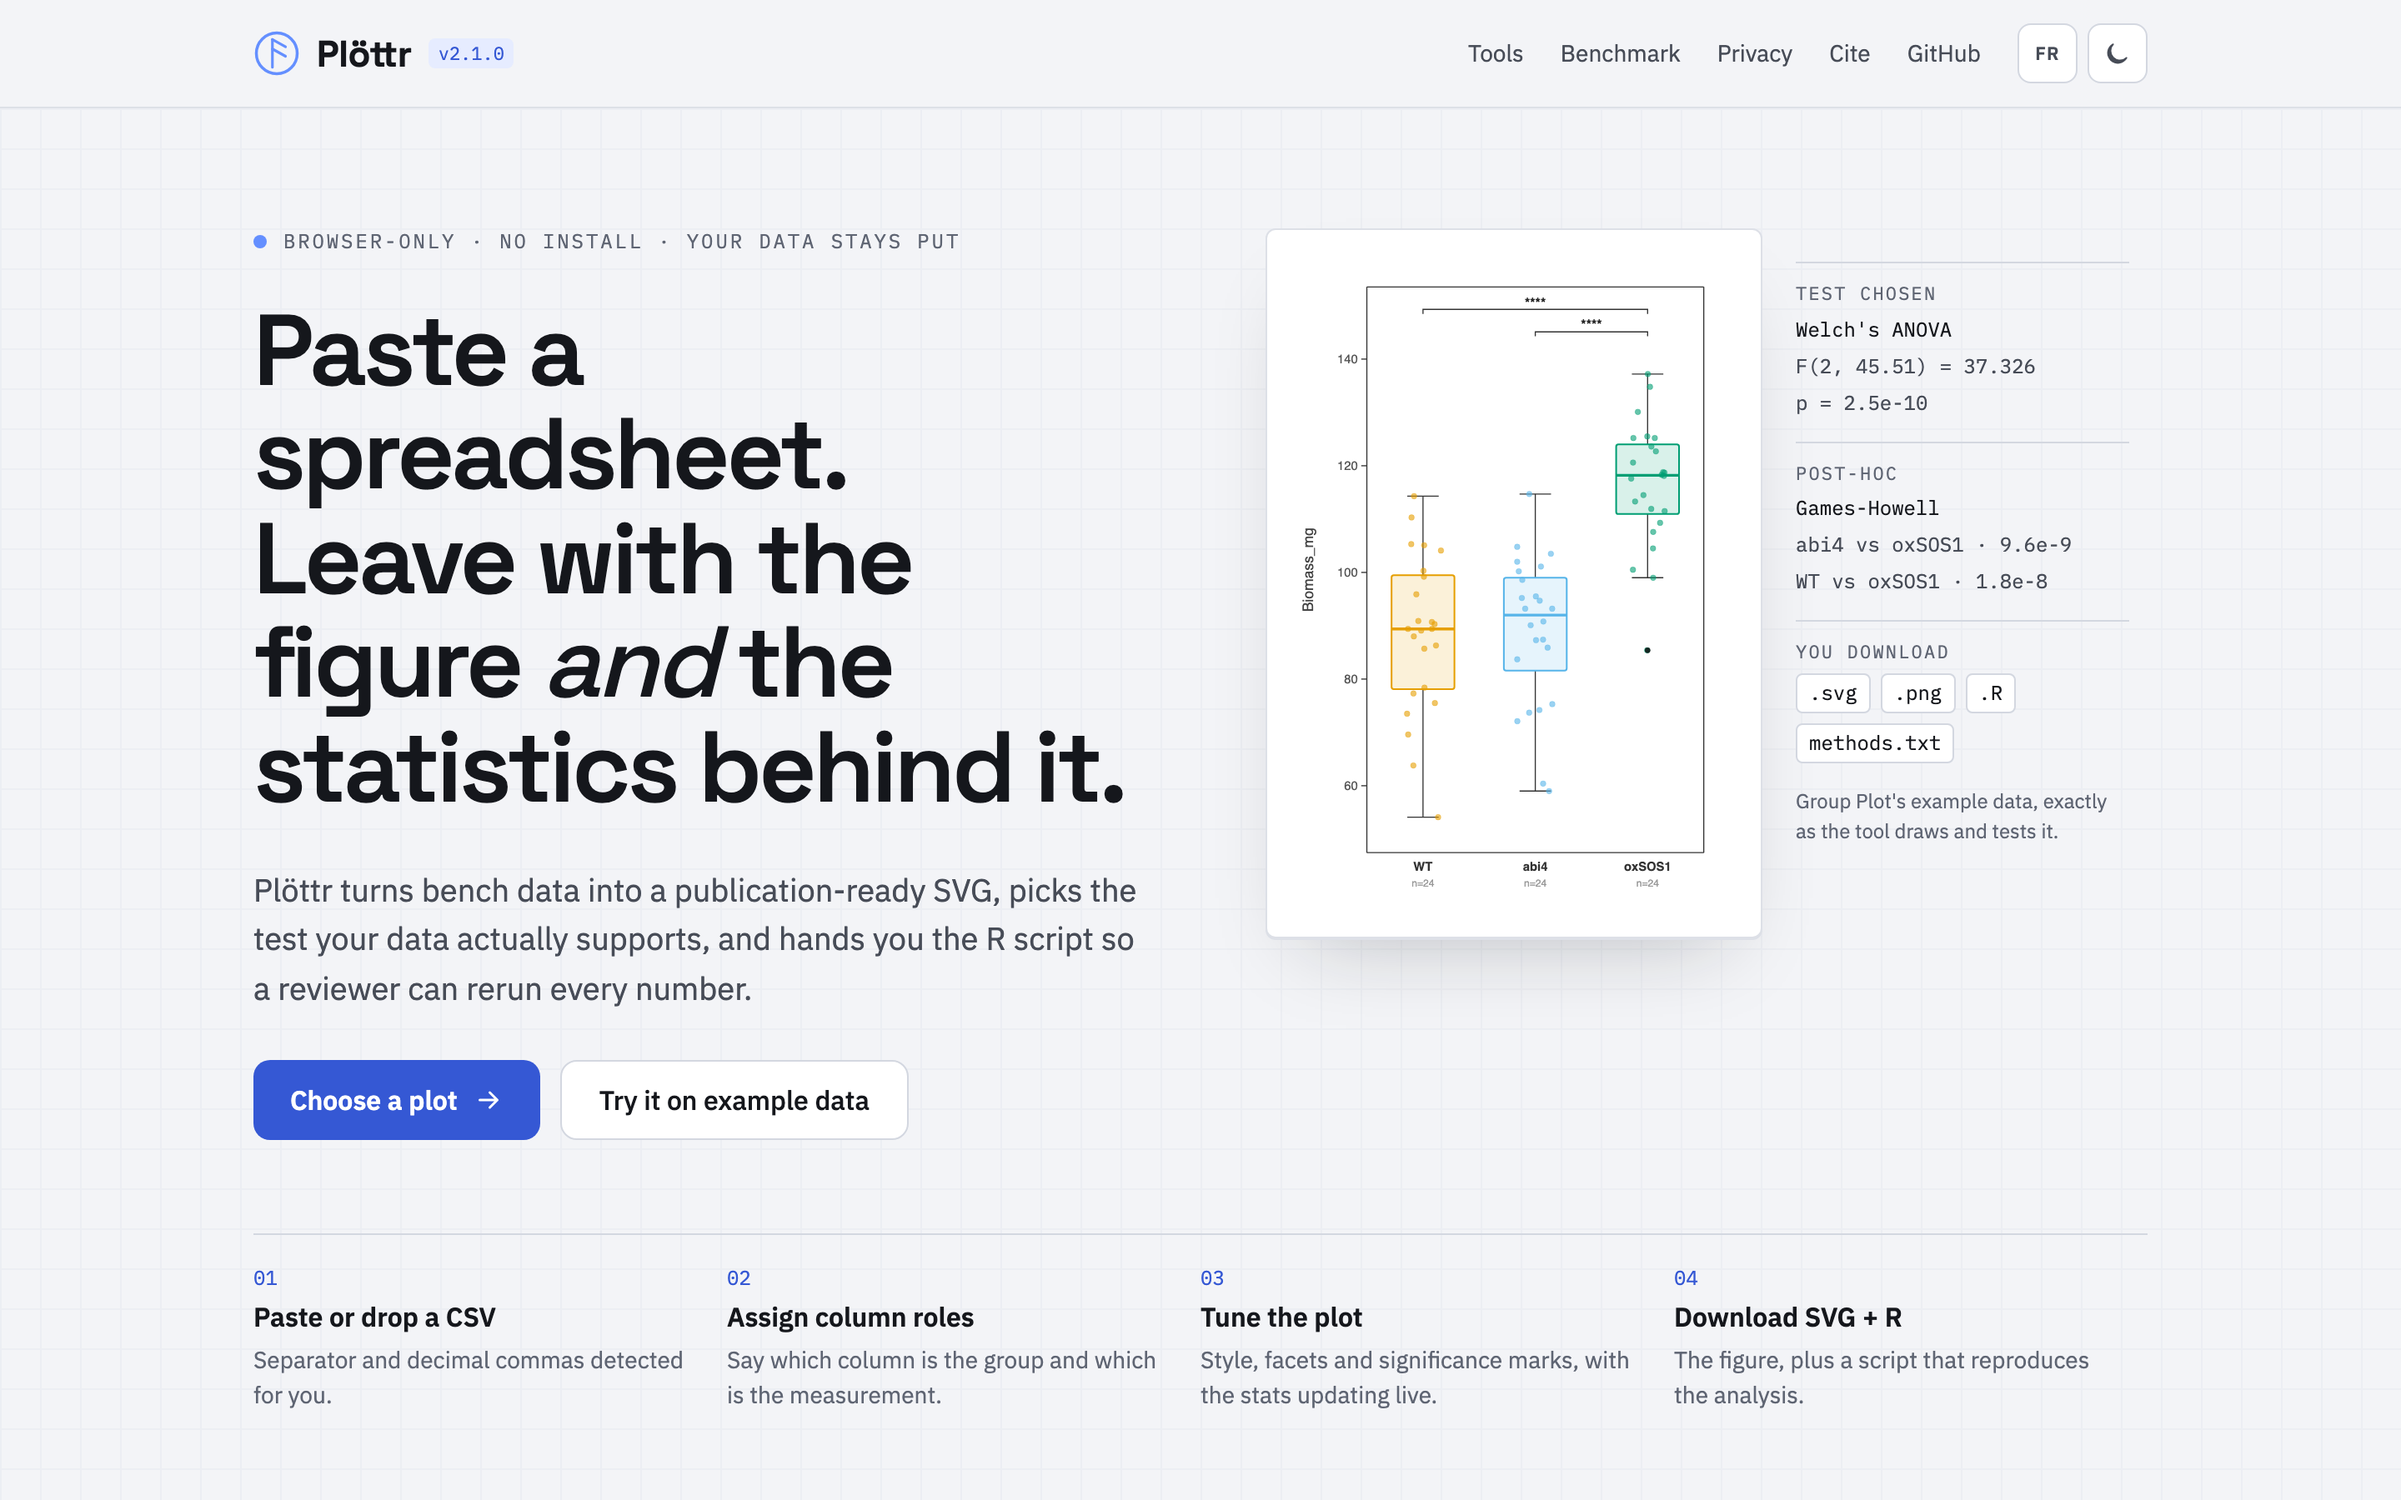
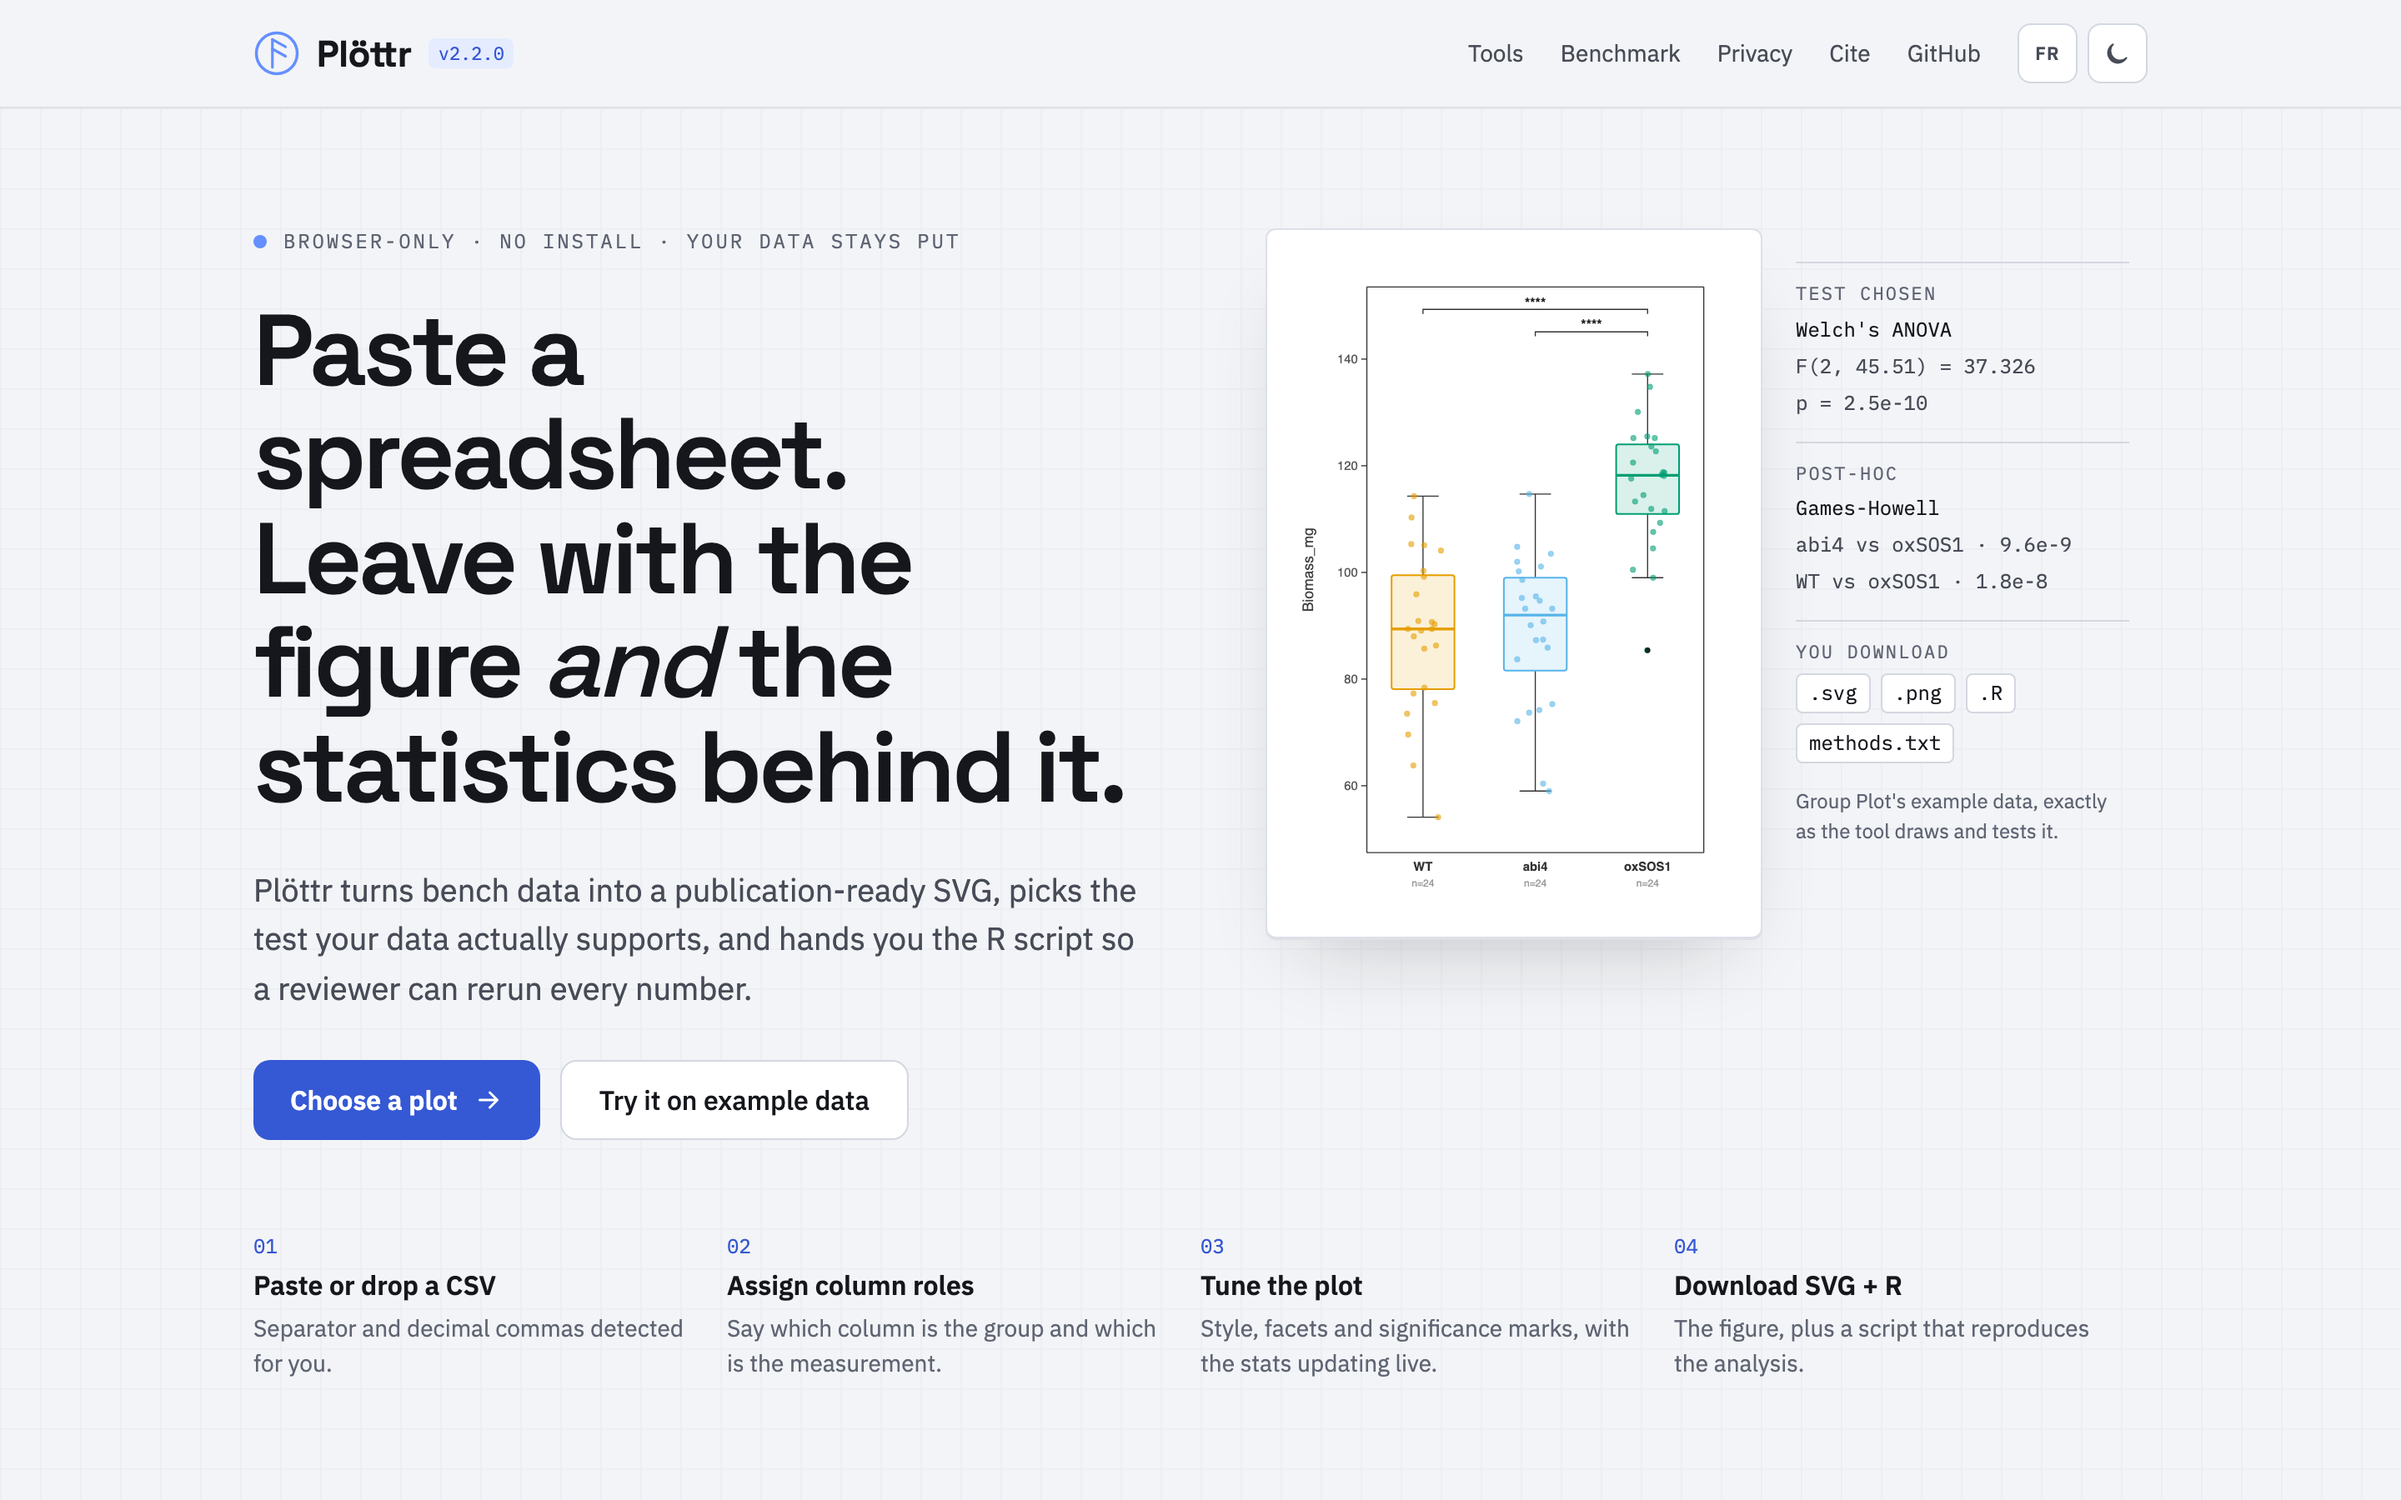
release: v2.2.0 "Clean Wells"

Changed region(s): [[0.0938, 0.84, 0.4688, 0.9333], [0.6875, 0.84, 0.875, 0.9333], [0.5, 0.84, 0.6562, 0.9333]]

diff --git a/tools/version.js b/tools/version.js
@@ -1,2 +1,2 @@
 // Auto-generated by scripts/write-version.js — do not edit.
-window.__APP_VERSION__ = "v2.1.0";
+window.__APP_VERSION__ = "v2.2.0";

diff --git a/CHANGELOG.md b/CHANGELOG.md
@@ -7,19 +7,35 @@ and this project adheres to [Semantic Versioning](https://semver.org/spec/v2.0.0
 
 ## [Unreleased]
 
+## [2.2.0] - 2026-10-29
+
+> Long-form release notes live in
+> [`docs/release-notes/v2.2.0.md`](docs/release-notes/v2.2.0.md). The
+> entries below are summary bullets that link there.
+>
+> The "Clean Wells" release: a fill-in Excel template and keep / drop choices for noisy technical
+> replicates in qPCR, plus plainer mapping and column-role boxes across tools. Charts and
+> statistics are unchanged unless you drop wells.
+
 ### Added
 
-- qPCR: the upload step offers an Excel template (.xlsx, built in the browser in English or French): a "How to fill" sheet explaining each column, an empty Data sheet with the headers ready, and a small Example that pastes straight in. Regression: 14 tests.
-- qPCR: each technical-replicate set flagged for SD > 0.5 cycles gets a selector — keep all wells, drop the outlier well (farthest from the set's median, offered for three or more wells) or drop the whole set. Exclusions flow into the statistics, report, R script and methods text. Regression: 7 tests.
+- **qPCR Excel template.** The upload step offers a fill-in .xlsx (How to fill / Data / Example),
+  built in the browser in English or French. Regression: 14 tests. See
+  [`docs/release-notes/v2.2.0.md`](docs/release-notes/v2.2.0.md#qpcr-fill-in-excel-template).
+- **qPCR flagged replicates.** Each technical-replicate set with SD > 0.5 cycles can keep all
+  wells, drop its outlier well or drop the whole set; exclusions reach the statistics, report,
+  R script and Methods text. Regression: 7 tests. See
+  [`docs/release-notes/v2.2.0.md`](docs/release-notes/v2.2.0.md#qpcr-keep-or-drop-flagged-technical-replicates).
 
 ### Changed
 
-- Scatter and Volcano: the Colour / Size / Shape mapping boxes in the sidebar are now plain sections like the other controls — a small glyph, the title, and a tag naming the detected column type ("continuous", "3 categories") — instead of pastel cards with coloured header bands.
-- Group Plot, Line Plot, RLU Timecourse and Volcano: the Configure step's column-role cards (Group / Value, X / Y / Group by, Calibration / Time axis, X / Y / Label) are now plain white cards with the same small section title, matching the other Configure panels.
-- Landing: the rule above the four "how it works" steps is gone and the steps sit a little higher.
-- RLU Timecourse: Sample selection sits on its own row under Series / Layout, and its panel opens there, pushing the plot down instead of floating over it.
-- Venn: clicking the selected row of the Intersections list again clears the selection, as clicking a selected region on the chart does, and the Items hint now says so. Regression: 1 test.
-- Heatmap: the cell-border width is a −/+ number box like the other numeric settings, instead of the browser's native spinner, and the border colour now has its own title, aligned with Width.
+- **Mapping and column-role boxes.** Scatter / Volcano mapping boxes are plain sidebar sections
+  with a glyph and a detected-type tag; the Configure-step role cards in Group Plot, Line Plot,
+  RLU Timecourse and Volcano are plain panels. See
+  [`docs/release-notes/v2.2.0.md`](docs/release-notes/v2.2.0.md#plainer-mapping-and-column-role-boxes).
+- **Smaller control fixes.** Heatmap border width as a −/+ box; Venn list row deselects on a
+  second click (regression: 1 test); RLU sample selection on its own row; tighter landing steps.
+  See [`docs/release-notes/v2.2.0.md`](docs/release-notes/v2.2.0.md#smaller-fixes-to-controls).
 
 ## [2.1.0] - 2026-10-23
 

diff --git a/docs/release-notes/v2.2.0.md b/docs/release-notes/v2.2.0.md
@@ -1,0 +1,58 @@
+# Plöttr v2.2.0 "Clean Wells" — release notes
+
+qPCR gets a fill-in Excel template and a say over noisy technical replicates. Around it, a round
+of interface polish: the coloured mapping and column-role boxes become plain panels, and a few
+small controls behave the way their neighbours do. Charts and statistical results are unchanged
+unless you choose to drop wells.
+
+## ✨ Added
+
+### qPCR: fill-in Excel template
+
+The upload step offers an Excel template (.xlsx), built in the browser in English or French. It
+has three sheets:
+
+- **How to fill** — what each column means.
+- **Data** — empty, with the headers ready.
+- **Example** — a small dataset that pastes straight into the tool.
+
+The workbook is written by Plöttr's own dependency-free `.xlsx` writer, so nothing is fetched and
+nothing leaves the browser.
+
+### qPCR: keep or drop flagged technical replicates
+
+A technical-replicate set whose Ct values spread by more than 0.5 cycles (SD) was already flagged.
+Each flagged set now has a selector in Configure's Quality checks:
+
+- **Keep all wells** — the default; nothing is excluded automatically.
+- **Drop the outlier well** — the well farthest from the set's median. Offered only for sets of
+  three or more wells with a single clear outlier.
+- **Drop the whole set.**
+
+Exclusions flow into everything downstream: the statistics, the report, the R script (which
+receives only the kept wells) and the Methods text. A set stays listed after you exclude from it,
+so the choice can be undone.
+
+## 🔧 Changed
+
+### Plainer mapping and column-role boxes
+
+The coloured boxes with tinted header bands are gone.
+
+- **Scatter and Volcano sidebars** — the Colour / Size / Shape mapping boxes are ordinary sidebar
+  sections, like Point style or Thresholds. Each has a small glyph for its aesthetic and, once a
+  column is mapped, a tag naming the detected column type ("continuous", "3 categories").
+- **Configure step (Group Plot, Line Plot, RLU Timecourse, Volcano)** — the column-role cards
+  (Group / Value, X / Y / Group by, Calibration / Time axis, X / Y / Label) are white panels with
+  the same small section title, matching the "Other columns" and data-preview panels below them.
+
+### Smaller fixes to controls
+
+- **Heatmap** — the cell-border width is a −/+ number box like the other numeric settings, and
+  the border colour has its own title, aligned with Width.
+- **Venn** — clicking the selected row of the Intersections list again clears the selection, as
+  clicking a selected region on the chart already did. The Items hint says so.
+- **RLU Timecourse** — Sample selection sits on its own row under Series / Layout, and its panel
+  opens in place, pushing the plot down instead of floating over it.
+- **Landing** — the rule above the four "how it works" steps is gone and the steps sit a little
+  higher.
